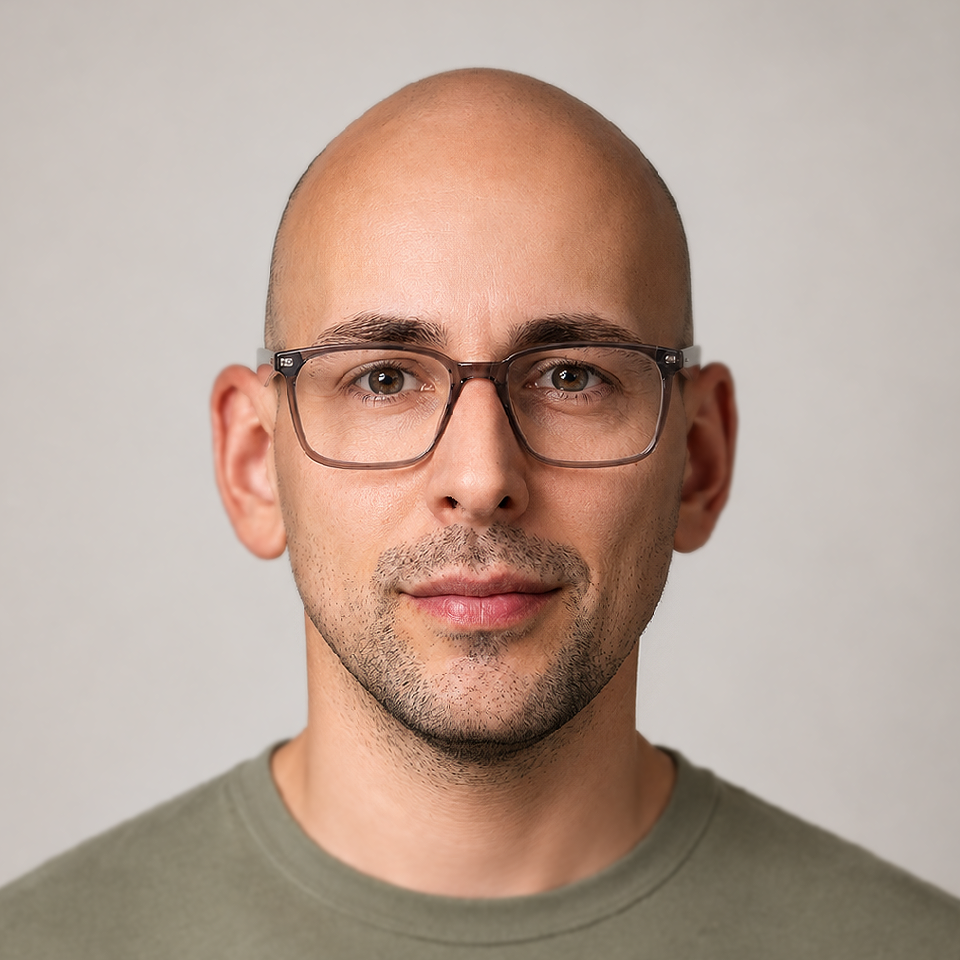
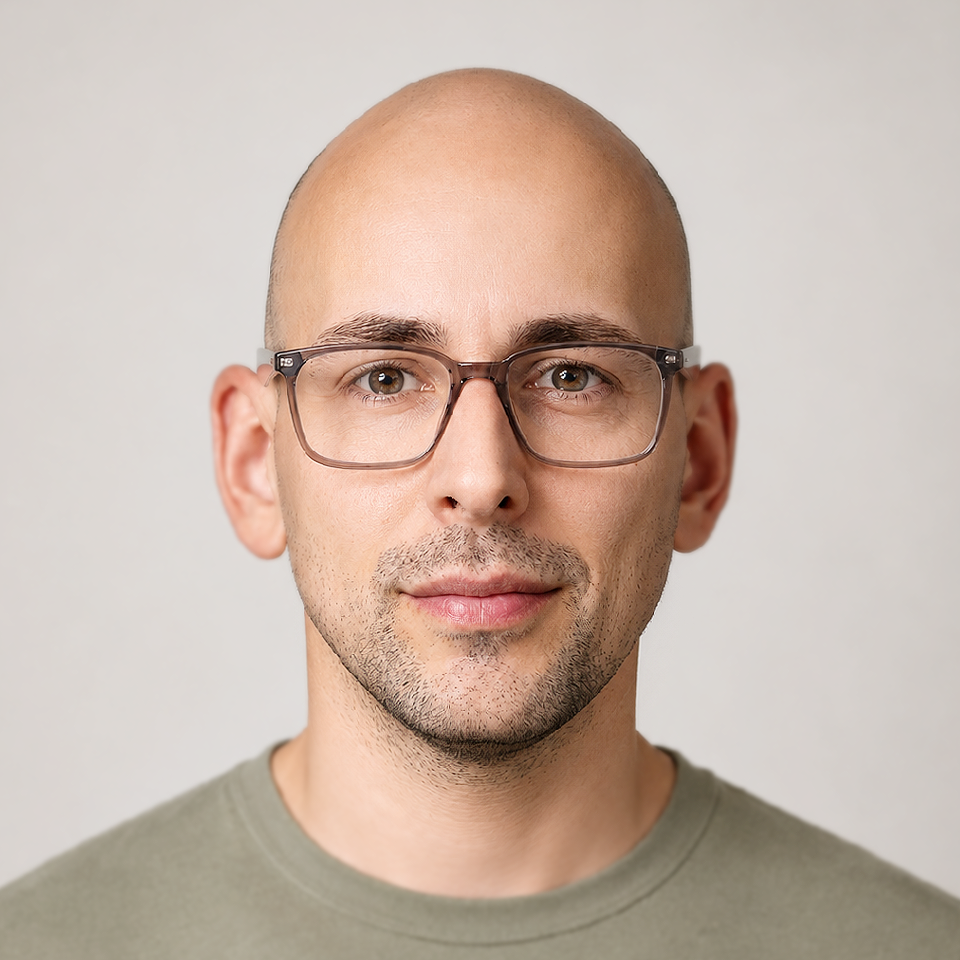
Vanta setup

diff --git a/public/vanta/vanta.net.min.js b/public/vanta/vanta.net.min.js
@@ -1,0 +1,1 @@
+!function(t,e){"object"==typeof exports&&"object"==typeof module?module.exports=e():"function"==typeof define&&define.amd?define([],e):"object"==typeof exports?exports._vantaEffect=e():t._vantaEffect=e()}("undefined"!=typeof self?self:this,(()=>(()=>{"use strict";var t={d:(e,i)=>{for(var s in i)t.o(i,s)&&!t.o(e,s)&&Object.defineProperty(e,s,{enumerable:!0,get:i[s]})},o:(t,e)=>Object.prototype.hasOwnProperty.call(t,e),r:t=>{"undefined"!=typeof Symbol&&Symbol.toStringTag&&Object.defineProperty(t,Symbol.toStringTag,{value:"Module"}),Object.defineProperty(t,"__esModule",{value:!0})}},e={};function i(){return"undefined"!=typeof navigator?/Android|webOS|iPhone|iPad|iPod|BlackBerry|IEMobile|Opera Mini/i.test(navigator.userAgent)||window.innerWidth<600:null}function s(t,e){return null==t&&(t=0),null==e&&(e=1),Math.floor(t+Math.random()*(e-t+1))}t.r(e),t.d(e,{default:()=>u}),Number.prototype.clamp=function(t,e){return Math.min(Math.max(this,t),e)};const o=t=>.299*t.r+.587*t.g+.114*t.b;function n(t){for(;t.children&&t.children.length>0;)n(t.children[0]),t.remove(t.children[0]);t.geometry&&t.geometry.dispose(),t.material&&(Object.keys(t.material).forEach((e=>{t.material[e]&&null!==t.material[e]&&"function"==typeof t.material[e].dispose&&t.material[e].dispose()})),t.material.dispose())}const r="object"==typeof window;let h=r&&window.THREE||{};r&&!window.VANTA&&(window.VANTA={});const a=r&&window.VANTA||{};a.register=(t,e)=>a[t]=t=>new e(t),a.version="0.5.24";const l=function(){return Array.prototype.unshift.call(arguments,"[VANTA]"),console.error.apply(this,arguments)};a.VantaBase=class{constructor(t={}){if(!r)return!1;a.current=this,this.windowMouseMoveWrapper=this.windowMouseMoveWrapper.bind(this),this.windowTouchWrapper=this.windowTouchWrapper.bind(this),this.windowGyroWrapper=this.windowGyroWrapper.bind(this),this.resize=this.resize.bind(this),this.animationLoop=this.animationLoop.bind(this),this.restart=this.restart.bind(this);const e="function"==typeof this.getDefaultOptions?this.getDefaultOptions():this.defaultOptions;if(this.options=Object.assign({mouseControls:!0,touchControls:!0,gyroControls:!1,minHeight:200,minWidth:200,scale:1,scaleMobile:1},e),(t instanceof HTMLElement||"string"==typeof t)&&(t={el:t}),Object.assign(this.options,t),this.options.THREE&&(h=this.options.THREE),this.el=this.options.el,null==this.el)l('Instance needs "el" param!');else if(!(this.options.el instanceof HTMLElement)){const t=this.el;if(this.el=(i=t,document.querySelector(i)),!this.el)return void l("Cannot find element",t)}var i,s;this.prepareEl(),this.initThree(),this.setSize();try{this.init()}catch(t){return l("Init error",t),this.renderer&&this.renderer.domElement&&this.el.removeChild(this.renderer.domElement),void(this.options.backgroundColor&&(console.log("[VANTA] Falling back to backgroundColor"),this.el.style.background=(s=this.options.backgroundColor,"number"==typeof s?"#"+("00000"+s.toString(16)).slice(-6):s)))}this.initMouse(),this.resize(),this.animationLoop();const o=window.addEventListener;o("resize",this.resize),window.requestAnimationFrame(this.resize),this.options.mouseControls&&(o("scroll",this.windowMouseMoveWrapper),o("mousemove",this.windowMouseMoveWrapper)),this.options.touchControls&&(o("touchstart",this.windowTouchWrapper),o("touchmove",this.windowTouchWrapper)),this.options.gyroControls&&o("deviceorientation",this.windowGyroWrapper)}setOptions(t={}){Object.assign(this.options,t),this.triggerMouseMove()}prepareEl(){let t,e;if("undefined"!=typeof Node&&Node.TEXT_NODE)for(t=0;t<this.el.childNodes.length;t++){const e=this.el.childNodes[t];if(e.nodeType===Node.TEXT_NODE){const t=document.createElement("span");t.textContent=e.textContent,e.parentElement.insertBefore(t,e),e.remove()}}for(t=0;t<this.el.children.length;t++)e=this.el.children[t],"static"===getComputedStyle(e).position&&(e.style.position="relative"),"auto"===getComputedStyle(e).zIndex&&(e.style.zIndex=1);"static"===getComputedStyle(this.el).position&&(this.el.style.position="relative")}applyCanvasStyles(t,e={}){Object.assign(t.style,{position:"absolute",zIndex:0,top:0,left:0,background:""}),Object.assign(t.style,e),t.classList.add("vanta-canvas")}initThree(){h.WebGLRenderer?(this.renderer=new h.WebGLRenderer({alpha:!0,antialias:!0}),this.el.appendChild(this.renderer.domElement),this.applyCanvasStyles(this.renderer.domElement),isNaN(this.options.backgroundAlpha)&&(this.options.backgroundAlpha=1),this.scene=new h.Scene):console.warn("[VANTA] No THREE defined on window")}getCanvasElement(){return this.renderer?this.renderer.domElement:this.p5renderer?this.p5renderer.canvas:void 0}getCanvasRect(){const t=this.getCanvasElement();return!!t&&t.getBoundingClientRect()}windowMouseMoveWrapper(t){const e=this.getCanvasRect();if(!e)return!1;const i=t.clientX-e.left,s=t.clientY-e.top;i>=0&&s>=0&&i<=e.width&&s<=e.height&&(this.mouseX=i,this.mouseY=s,this.options.mouseEase||this.triggerMouseMove(i,s))}windowTouchWrapper(t){const e=this.getCanvasRect();if(!e)return!1;if(1===t.touches.length){const i=t.touches[0].clientX-e.left,s=t.touches[0].clientY-e.top;i>=0&&s>=0&&i<=e.width&&s<=e.height&&(this.mouseX=i,this.mouseY=s,this.options.mouseEase||this.triggerMouseMove(i,s))}}windowGyroWrapper(t){const e=this.getCanvasRect();if(!e)return!1;const i=Math.round(2*t.alpha)-e.left,s=Math.round(2*t.beta)-e.top;i>=0&&s>=0&&i<=e.width&&s<=e.height&&(this.mouseX=i,this.mouseY=s,this.options.mouseEase||this.triggerMouseMove(i,s))}triggerMouseMove(t,e){void 0===t&&void 0===e&&(this.options.mouseEase?(t=this.mouseEaseX,e=this.mouseEaseY):(t=this.mouseX,e=this.mouseY)),this.uniforms&&(this.uniforms.iMouse.value.x=t/this.scale,this.uniforms.iMouse.value.y=e/this.scale);const i=t/this.width,s=e/this.height;"function"==typeof this.onMouseMove&&this.onMouseMove(i,s)}setSize(){this.scale||(this.scale=1),i()&&this.options.scaleMobile?this.scale=this.options.scaleMobile:this.options.scale&&(this.scale=this.options.scale),this.width=Math.max(this.el.offsetWidth,this.options.minWidth),this.height=Math.max(this.el.offsetHeight,this.options.minHeight)}initMouse(){(!this.mouseX&&!this.mouseY||this.mouseX===this.options.minWidth/2&&this.mouseY===this.options.minHeight/2)&&(this.mouseX=this.width/2,this.mouseY=this.height/2,this.triggerMouseMove(this.mouseX,this.mouseY))}resize(){this.setSize(),this.camera&&(this.camera.aspect=this.width/this.height,"function"==typeof this.camera.updateProjectionMatrix&&this.camera.updateProjectionMatrix()),this.renderer&&(this.renderer.setSize(this.width,this.height),this.renderer.setPixelRatio(window.devicePixelRatio/this.scale)),"function"==typeof this.onResize&&this.onResize()}isOnScreen(){const t=this.el.offsetHeight,e=this.el.getBoundingClientRect(),i=window.pageYOffset||(document.documentElement||document.body.parentNode||document.body).scrollTop,s=e.top+i;return s-window.innerHeight<=i&&i<=s+t}animationLoop(){this.t||(this.t=0),this.t2||(this.t2=0);const t=performance.now();if(this.prevNow){let e=(t-this.prevNow)/(1e3/60);e=Math.max(.2,Math.min(e,5)),this.t+=e,this.t2+=(this.options.speed||1)*e,this.uniforms&&(this.uniforms.iTime.value=.016667*this.t2)}return this.prevNow=t,this.options.mouseEase&&(this.mouseEaseX=this.mouseEaseX||this.mouseX||0,this.mouseEaseY=this.mouseEaseY||this.mouseY||0,Math.abs(this.mouseEaseX-this.mouseX)+Math.abs(this.mouseEaseY-this.mouseY)>.1&&(this.mouseEaseX+=.05*(this.mouseX-this.mouseEaseX),this.mouseEaseY+=.05*(this.mouseY-this.mouseEaseY),this.triggerMouseMove(this.mouseEaseX,this.mouseEaseY))),(this.isOnScreen()||this.options.forceAnimate)&&("function"==typeof this.onUpdate&&this.onUpdate(),this.scene&&this.camera&&(this.renderer.render(this.scene,this.camera),this.renderer.setClearColor(this.options.backgroundColor,this.options.backgroundAlpha)),this.fps&&this.fps.update&&this.fps.update(),"function"==typeof this.afterRender&&this.afterRender()),this.req=window.requestAnimationFrame(this.animationLoop)}restart(){if(this.scene)for(;this.scene.children.length;)this.scene.remove(this.scene.children[0]);"function"==typeof this.onRestart&&this.onRestart(),this.init()}init(){"function"==typeof this.onInit&&this.onInit()}destroy(){"function"==typeof this.onDestroy&&this.onDestroy();const t=window.removeEventListener;t("touchstart",this.windowTouchWrapper),t("touchmove",this.windowTouchWrapper),t("scroll",this.windowMouseMoveWrapper),t("mousemove",this.windowMouseMoveWrapper),t("deviceorientation",this.windowGyroWrapper),t("resize",this.resize),window.cancelAnimationFrame(this.req);const e=this.scene;e&&e.children&&n(e),this.renderer&&(this.renderer.domElement&&this.el.removeChild(this.renderer.domElement),this.renderer=null,this.scene=null),a.current===this&&(a.current=null)}};const c=a.VantaBase;let p="object"==typeof window&&window.THREE;class d extends c{static initClass(){this.prototype.defaultOptions={color:16727937,backgroundColor:2299196,points:10,maxDistance:20,spacing:15,showDots:!0}}constructor(t){p=t.THREE||p,super(t)}genPoint(t,e,i){let s;if(this.points||(this.points=[]),this.options.showDots){const t=new p.SphereGeometry(.25,12,12),e=new p.MeshLambertMaterial({color:this.options.color});s=new p.Mesh(t,e)}else s=new p.Object3D;var o,n;return this.cont.add(s),s.ox=t,s.oy=e,s.oz=i,s.position.set(t,e,i),s.r=(null==(o=-2)&&(o=0),null==(n=2)&&(n=1),o+Math.random()*(n-o)),this.points.push(s)}onInit(){this.cont=new p.Group,this.cont.position.set(0,0,0),this.scene.add(this.cont);let t=this.options.points,{spacing:e}=this.options;i()&&(t=~~(.75*t),e=~~(.65*e));const n=t*t*2;this.linePositions=new Float32Array(n*n*3),this.lineColors=new Float32Array(n*n*3);const r=o(new p.Color(this.options.color)),h=o(new p.Color(this.options.backgroundColor));this.blending=r>h?"additive":"subtractive";const a=new p.BufferGeometry;a.setAttribute("position",new p.BufferAttribute(this.linePositions,3).setUsage(p.DynamicDrawUsage)),a.setAttribute("color",new p.BufferAttribute(this.lineColors,3).setUsage(p.DynamicDrawUsage)),a.computeBoundingSphere(),a.setDrawRange(0,0);const l=new p.LineBasicMaterial({vertexColors:p.VertexColors,blending:"additive"===this.blending?p.AdditiveBlending:null,transparent:!0});this.linesMesh=new p.LineSegments(a,l),this.cont.add(this.linesMesh);for(let i=0;i<=t;i++)for(let o=0;o<=t;o++){const n=s(-3,3),r=(i-t/2)*e+s(-5,5);let h=(o-t/2)*e+s(-5,5);i%2&&(h+=.5*e),this.genPoint(r,n-s(5,15),h),this.genPoint(r+s(-5,5),n+s(5,15),h+s(-5,5))}this.camera=new p.PerspectiveCamera(25,this.width/this.height,.01,1e4),this.camera.position.set(50,100,150),this.scene.add(this.camera);const c=new p.AmbientLight(16777215,.75);return this.scene.add(c),this.spot=new p.SpotLight(16777215,1),this.spot.position.set(0,200,0),this.spot.distance=400,this.spot.target=this.cont,this.scene.add(this.spot)}onDestroy(){this.scene&&this.scene.remove(this.linesMesh),this.spot=this.points=this.linesMesh=this.lineColors=this.linePositions=null}setOptions(t){super.setOptions(t),t.color&&this.points.forEach((e=>{e.material.color=new p.Color(t.color)}))}onUpdate(){let t;const e=this.camera;Math.abs(e.tx-e.position.x)>.01&&(t=e.tx-e.position.x,e.position.x+=.02*t),Math.abs(e.ty-e.position.y)>.01&&(t=e.ty-e.position.y,e.position.y+=.02*t),e.lookAt(new p.Vector3(0,0,0));let i=0,s=0,o=0;const n=new p.Color(this.options.backgroundColor),r=new p.Color(this.options.color),h=r.clone().sub(n);this.rayCaster&&this.rayCaster.setFromCamera(new p.Vector2(this.rcMouseX,this.rcMouseY),this.camera);for(let t=0;t<this.points.length;t++){let e,a;const l=this.points[t];a=this.rayCaster?this.rayCaster.ray.distanceToPoint(l.position):1e3;const c=a.clamp(5,15);if(l.scale.x=l.scale.y=l.scale.z=(.25*(15-c)).clamp(1,100),0!==l.r){let t=Math.atan2(l.position.z,l.position.x);e=Math.sqrt(l.position.z*l.position.z+l.position.x*l.position.x),t+=25e-5*l.r,l.position.x=e*Math.cos(t),l.position.z=e*Math.sin(t)}for(let a=t;a<this.points.length;a++){const t=this.points[a],c=l.position.x-t.position.x,d=l.position.y-t.position.y,u=l.position.z-t.position.z;if(e=Math.sqrt(c*c+d*d+u*u),e<this.options.maxDistance){let a;const c=(2*(1-e/this.options.maxDistance)).clamp(0,1);a="additive"===this.blending?new p.Color(0).lerp(h,c):n.clone().lerp(r,c),this.linePositions[i++]=l.position.x,this.linePositions[i++]=l.position.y,this.linePositions[i++]=l.position.z,this.linePositions[i++]=t.position.x,this.linePositions[i++]=t.position.y,this.linePositions[i++]=t.position.z,this.lineColors[s++]=a.r,this.lineColors[s++]=a.g,this.lineColors[s++]=a.b,this.lineColors[s++]=a.r,this.lineColors[s++]=a.g,this.lineColors[s++]=a.b,o++}}}return this.linesMesh.geometry.setDrawRange(0,2*o),this.linesMesh.geometry.attributes.position.needsUpdate=!0,this.linesMesh.geometry.attributes.color.needsUpdate=!0,.001*this.t}onMouseMove(t,e){const i=this.camera;i.oy||(i.oy=i.position.y,i.ox=i.position.x,i.oz=i.position.z);const s=Math.atan2(i.oz,i.ox),o=Math.sqrt(i.oz*i.oz+i.ox*i.ox),n=s+2*(t-.5)*(this.options.mouseCoeffX||1);i.tz=o*Math.sin(n),i.tx=o*Math.cos(n),i.ty=i.oy+50*(e-.5)*(this.options.mouseCoeffY||1),this.rayCaster,this.rcMouseX=2*t-1,this.rcMouseY=2*-t+1}onRestart(){this.scene&&this.scene.remove(this.linesMesh),this.points=[]}}d.initClass();const u=a.register("NET",d);return e})()));